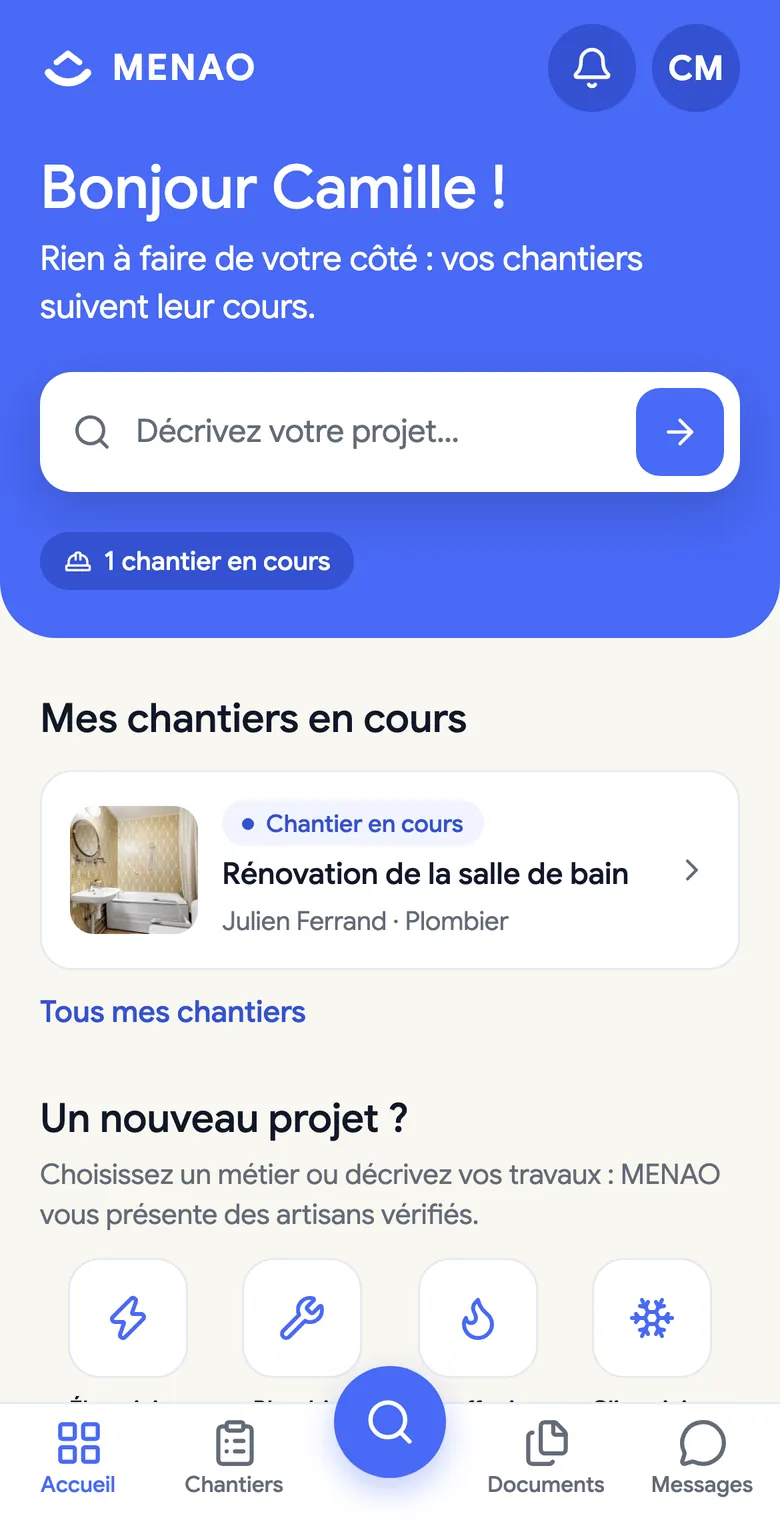
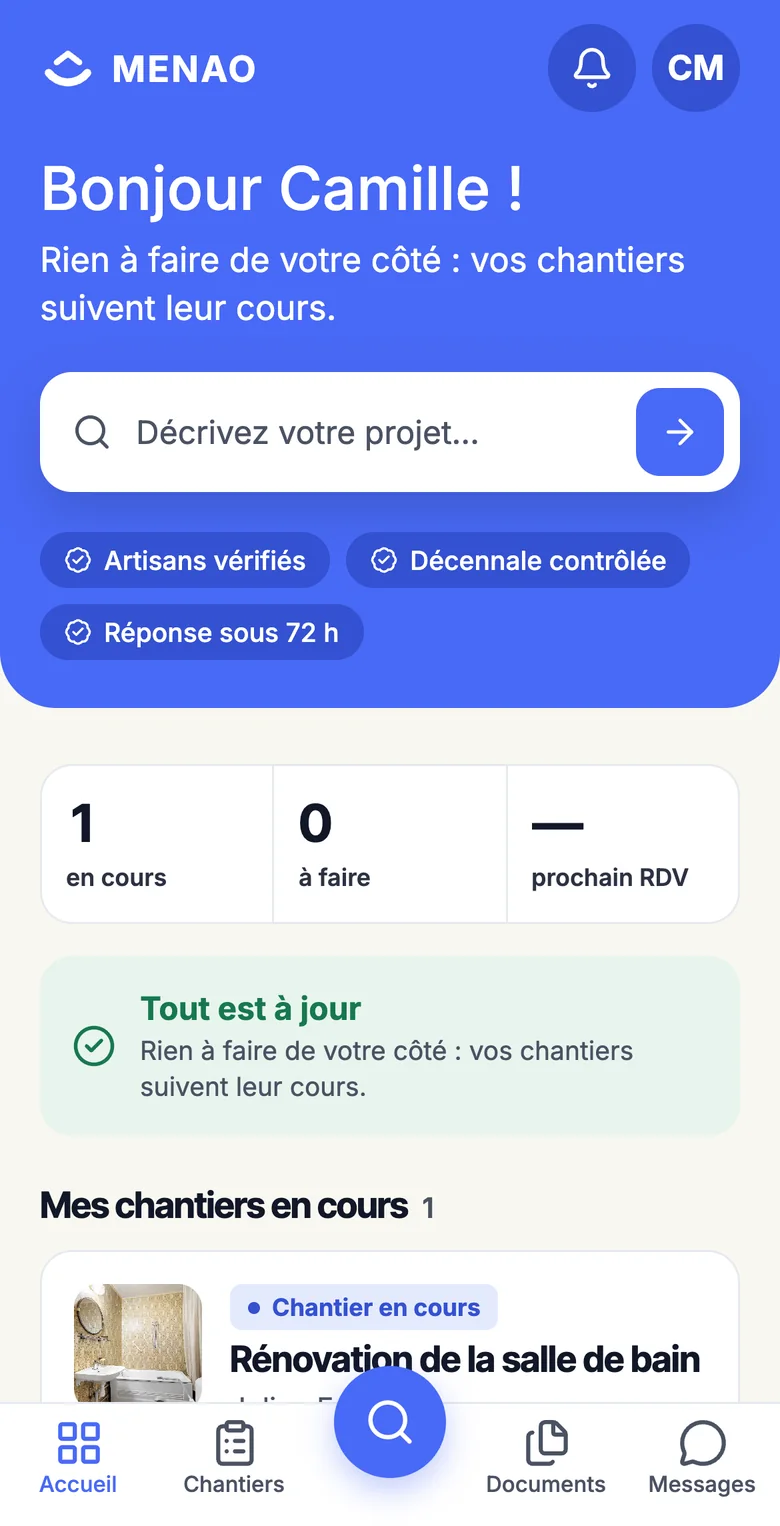
feat(site): écrans de l'application à jour dans les mockups (interface « Nette »)
Les 11 écrans montrés sur le site dataient du 19 octobre, avant la
refonte de l'interface. Ils sont recapturés depuis l'application
actuelle (mêmes personnes et données fictives), au même format
(780 × 1 526 et 1 600 × 1 000), et les couleurs de bord des téléphones
suivent le nouveau fond.

diff --git a/apps/web/src/lib/site/app-screens.ts b/apps/web/src/lib/site/app-screens.ts
@@ -6,7 +6,7 @@
  */
 export type AppScreen = { src: string; top: string; bottom: string; darkTop?: boolean };
 
-const BEIGE = "#f8f7f1";
+const BEIGE = "#f9f7f0";
 
 export const APP_SCREENS = {
   clientAccueil: {
@@ -15,14 +15,14 @@ export const APP_SCREENS = {
     bottom: "#ffffff",
     darkTop: true,
   },
-  clientRecherche: { src: "/images/app/client-recherche.webp", top: BEIGE, bottom: BEIGE },
+  clientRecherche: { src: "/images/app/client-recherche.webp", top: BEIGE, bottom: "#ffffff" },
   clientArtisans: { src: "/images/app/client-artisans.webp", top: "#ffffff", bottom: "#ffffff" },
   clientFiche: { src: "/images/app/client-fiche.webp", top: BEIGE, bottom: BEIGE },
   clientRdv: { src: "/images/app/client-rdv.webp", top: BEIGE, bottom: BEIGE },
   clientDevis: { src: "/images/app/client-devis.webp", top: BEIGE, bottom: "#ffffff" },
-  clientAcompte: { src: "/images/app/client-acompte.webp", top: "#ffffff", bottom: BEIGE },
+  clientAcompte: { src: "/images/app/client-acompte.webp", top: BEIGE, bottom: BEIGE },
   clientSuivi: { src: "/images/app/client-suivi.webp", top: BEIGE, bottom: BEIGE },
-  clientAvis: { src: "/images/app/client-avis.webp", top: "#486af7", bottom: BEIGE, darkTop: true },
+  clientAvis: { src: "/images/app/client-avis.webp", top: BEIGE, bottom: "#ffffff" },
   proAccueil: { src: "/images/app/pro-accueil.webp", top: BEIGE, bottom: "#ffffff" },
 } satisfies Record<string, AppScreen>;
 
